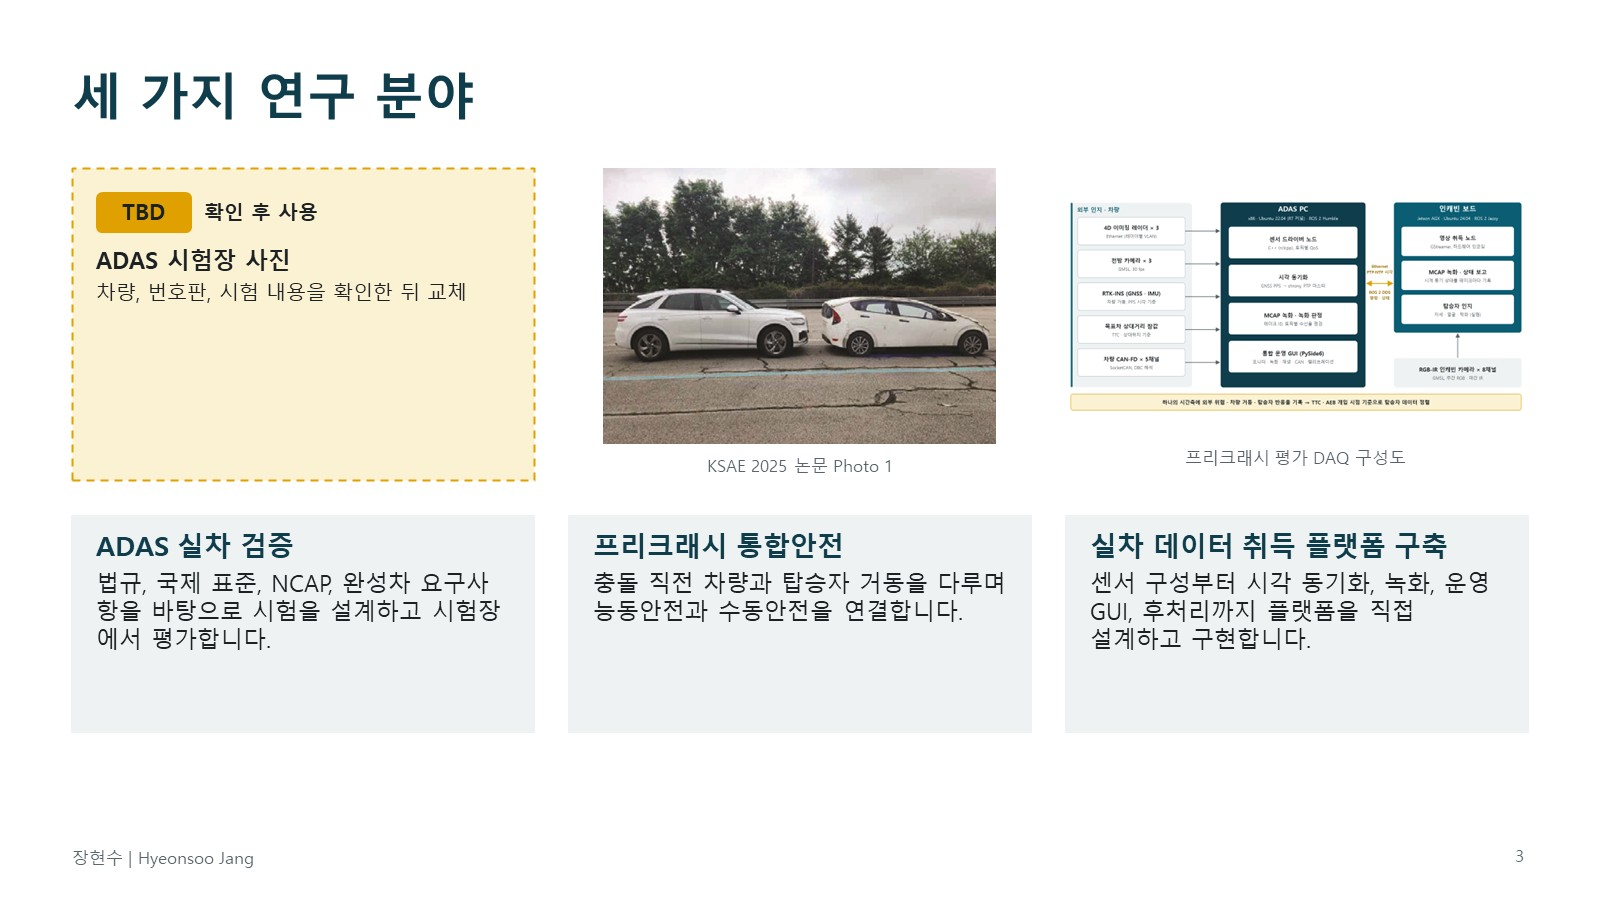
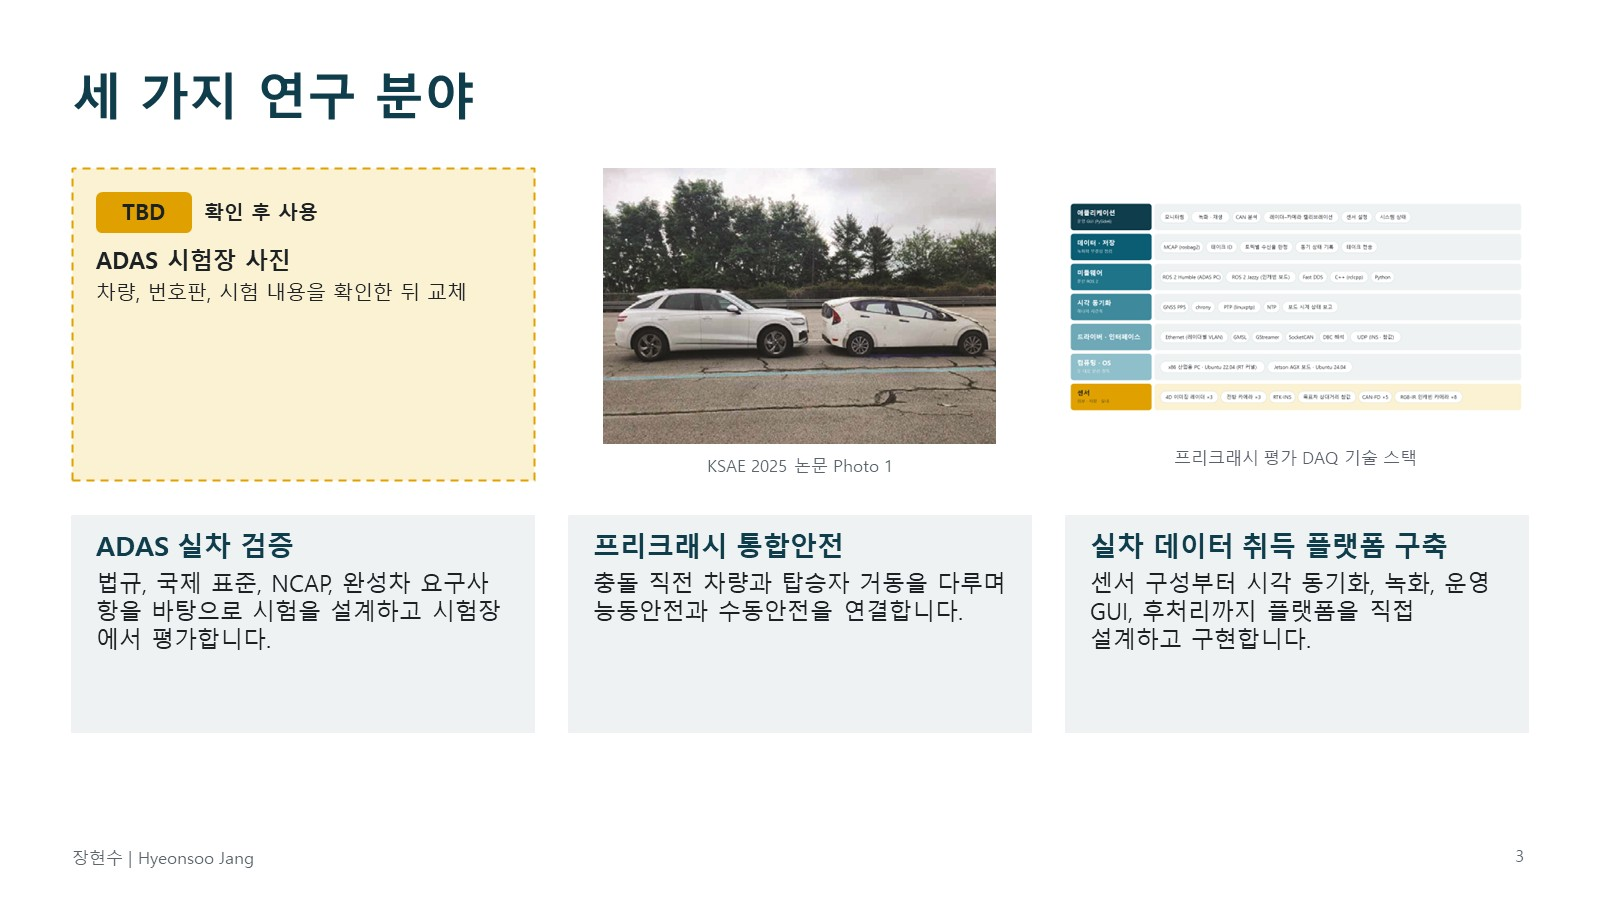
데이터 취득 플랫폼을 계층 도식으로 바꾸고 블록 구성도와 precrash GUI 화면 제거
- 연구 및 개발: 플랫폼별 센서·기술 스택 목록과 블록 구성도를 센서부터 애플리케이션까지의 계층 도식으로 대체
- precrash 운영 GUI 화면 제거 (PBV 난방 GUI는 유지)
- 소개 자료: 3, 7, 8, 9장 같은 기준으로 교체 (8, 9장 제목은 '기술 스택')

Changed region(s): [[0.6562, 0.2178, 0.9688, 0.4667], [0.75, 0.4978, 0.875, 0.5289]]

diff --git a/assets/style.css b/assets/style.css
@@ -121,11 +121,11 @@ figcaption { color: var(--muted); font-size: .84rem; line-height: 1.5; margin-to
 .platform { margin-top: 36px; padding-top: 28px; border-top: 1px dashed var(--line); }
 .platform h3 { font-size: 1.15rem; margin: 0 0 4px; }
 .platform-grid { display: grid; grid-template-columns: minmax(0, 5fr) minmax(0, 6fr); gap: 20px 40px; margin-top: 16px; }
-.platform dl { margin: 0; }
-.platform dt { font-weight: 700; font-size: .92rem; color: var(--muted); margin-top: 10px; }
-.platform dt:first-child { margin-top: 0; }
-.platform dd { margin: 0; }
-.platform dd ul.points { margin-top: 4px; }
+.platform-grid.solo { grid-template-columns: minmax(0, 1fr); }
+.platform h4 { font-weight: 700; font-size: .92rem; color: var(--muted); margin: 0; }
+.platform h4 + ul.points { margin-top: 4px; }
+.diagram { margin-top: 16px; }
+.diagram figure { margin-bottom: 0; }
 .diagram figure img { background: #fff; }
 .outputs { margin-top: 18px; }
 .outputs h3 { font-size: .96rem; color: var(--muted); font-weight: 600; margin-bottom: 4px; }
